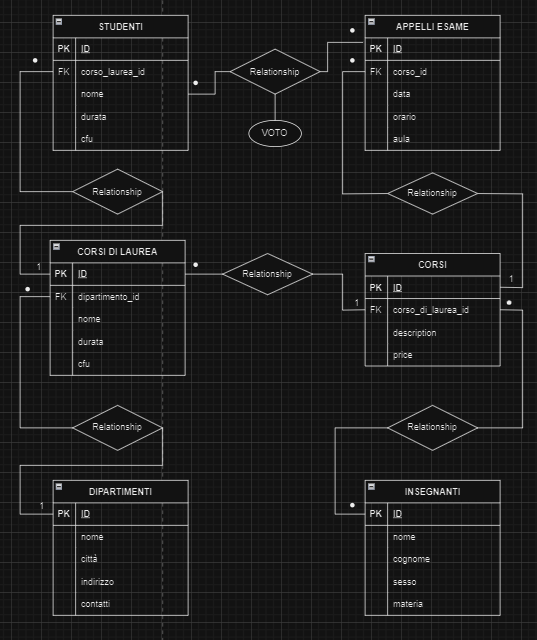
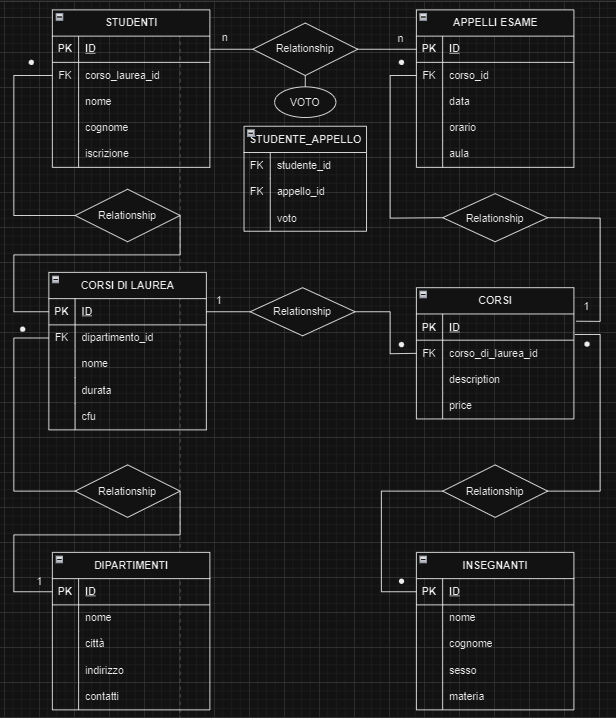
database png update

diff --git a/readme.md b/readme.md
@@ -1,0 +1,12 @@
+Esercizio: db-university
+
+Modellizzare la struttura di un database per memorizzare tutti i dati riguardanti una università:
+- sono presenti diversi Dipartimenti (es.: Lettere e Filosofia, Matematica, Ingegneria ecc.);
+- ogni Dipartimento offre più Corsi di Laurea (es.: Civiltà e Letterature Classiche, Informatica, Ingegneria Elettronica ecc..)
+- ogni Corso di Laurea prevede diversi Corsi (es.: Letteratura Latina, Sistemi Operativi 1, Analisi Matematica 2 ecc.); - ogni Corso può essere tenuto da diversi Insegnanti;
+- ogni Corso prevede più appelli d'Esame;
+- ogni Studente è iscritto ad un solo Corso di Laurea;
+- ogni Studente può iscriversi a più appelli di Esame;
+- per ogni appello d'Esame a cui lo Studente ha partecipato, è necessario memorizzare il voto ottenuto, anche se non sufficiente.
+
+Pensiamo a quali entità (tabelle) creare per il nostro database e cerchiamo poi di stabilirne le relazioni. Infine, andiamo a definire le colonne e i tipi di dato di ogni tabella.
